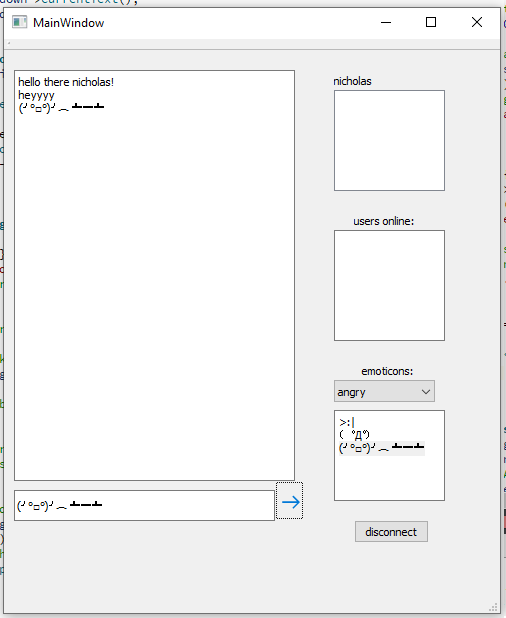
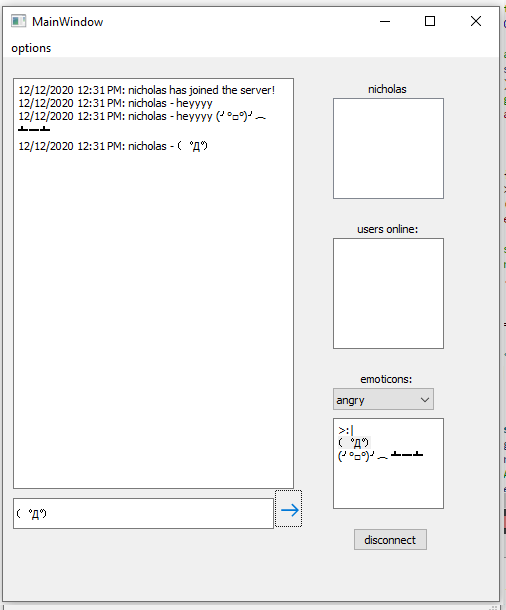
added a page for editing emoticons. made some more edits

diff --git a/app/mainwindow.cpp b/app/mainwindow.cpp
@@ -2,6 +2,7 @@
 #include "userdata.h"
 #include "ui_mainwindow.h"
 
+#include <QMenuBar>
 #include <QtDebug>
 
 MainWindow::MainWindow(QWidget *parent) :
@@ -10,17 +11,24 @@ MainWindow::MainWindow(QWidget *parent) :
 {
     ui->setupUi(this);
 
+    isConnected = false;
+
     // set up qwidgets for the windows
     stackedWidget = new QStackedWidget;
     QMainWindow::setCentralWidget(stackedWidget);
+
+    // set up menu bar
+    setUpMenuBar();
 
     userData = nullptr;
     clientSocket = new QTcpSocket();
     loginPage = new Login(nullptr, clientSocket);
     chatArea = new ChatArea(nullptr, clientSocket);
+    emoticonEdit = new EmoticonEdit(nullptr);
 
     stackedWidget->addWidget(loginPage);
     stackedWidget->addWidget(chatArea);
+    stackedWidget->addWidget(emoticonEdit);
     stackedWidget->setCurrentWidget(loginPage);
 
     // receive signal from the login page to move to chat area
@@ -35,8 +43,14 @@ void MainWindow::goToLogin(){
 }
 
 void MainWindow::goToChat(){
+    // user is connected
+    isConnected = true;
+
     // change the page
     stackedWidget->setCurrentWidget(chatArea);
+
+    // adjust menu bar items' active state
+    // i.e. 'go to previous page' should be greyed out when on the chat page
 
     // give chatArea userdata info
     emit giveUserData(userData);
@@ -52,6 +66,51 @@ void MainWindow::resize(int index){
 void MainWindow::getUserData(UserData* data){
     qDebug() << "MainWindow: got the userdata in mainwindow! username: " << *(data->username);
     userData = data;
+}
+
+void MainWindow::setUpMenuBar(){
+
+    // set up actions
+    editEmoticonsAct = new QAction(tr("&edit emoticons"), this);
+    goBackAct = new QAction(tr("&back to previous page"), this);
+    disconnectAct = new QAction(tr("&disconnect from server"), this);
+
+    connect(editEmoticonsAct, &QAction::triggered, this, &MainWindow::goToEditEmoticons);
+    connect(goBackAct, &QAction::triggered, this, &MainWindow::goBackToPrevPage);
+    connect(disconnectAct, &QAction::triggered, this, &MainWindow::disconnectFromServer);
+
+    // set up menu
+    optionMenu = new QMenu(tr("&options"), this);
+    optionMenu->addAction(editEmoticonsAct);
+    optionMenu->addAction(goBackAct);
+    optionMenu->addAction(disconnectAct);
+
+    // on login page, 'go back' and 'disconnect' should be greyed out
+    goBackAct->setEnabled(false);
+    disconnectAct->setEnabled(false);
+
+    menuBar()->addMenu(optionMenu);
+}
+
+// slots for handling menu bar actions
+void MainWindow::goToEditEmoticons(){
+    // make sure goBackToPrevPage is enabled
+    goBackAct->setEnabled(true);
+    stackedWidget->setCurrentWidget(emoticonEdit);
+}
+
+void MainWindow::goBackToPrevPage(){
+    // set current page to either the login if not connected yet,
+    // or to the chat area if connected
+    if(stackedWidget->currentIndex() == 2 && !isConnected){
+        // if we're currently on the edit emoticons page and we're not connected
+        // to a server, go back to login page
+        stackedWidget->setCurrentWidget(loginPage);
+    }
+}
+
+void MainWindow::disconnectFromServer(){
+    // disconnect from the server
 }
 
 MainWindow::~MainWindow()

diff --git a/app/mainwindow.h b/app/mainwindow.h
@@ -3,11 +3,14 @@
 
 #include "login.h"
 #include "chatarea.h"
+#include "emoticonedit.h"
 #include "userdata.h"
 
 #include <QMainWindow>
 #include <QTcpSocket>
 #include <QStackedWidget>
+#include <QAction>
+#include <QMenu>
 
 namespace Ui {
     class MainWindow;
@@ -30,13 +33,31 @@ private slots:
     void resize(int index);
     void getUserData(UserData* data);
 
+    // for menu actions
+    void goToEditEmoticons();
+    void goBackToPrevPage();
+    void disconnectFromServer();
+
 private:
     Ui::MainWindow *ui;
     QStackedWidget* stackedWidget;
+
+    // pages
     Login* loginPage;
     ChatArea* chatArea;
+    EmoticonEdit* emoticonEdit;
+
     QTcpSocket* clientSocket;
     UserData* userData;
+
+    QMenu* optionMenu;
+    QAction* editEmoticonsAct;
+    QAction* goBackAct;
+    QAction* disconnectAct;
+
+    bool isConnected; // if is connected to chat server
+
+    void setUpMenuBar();
 };
 
 #endif // MAINWINDOW_H

diff --git a/app/emoticonedit.h b/app/emoticonedit.h
@@ -1,0 +1,22 @@
+#ifndef EMOTICONEDIT_H
+#define EMOTICONEDIT_H
+
+#include <QWidget>
+
+namespace Ui {
+class EmoticonEdit;
+}
+
+class EmoticonEdit : public QWidget
+{
+    Q_OBJECT
+
+public:
+    explicit EmoticonEdit(QWidget *parent = nullptr);
+    ~EmoticonEdit();
+
+private:
+    Ui::EmoticonEdit *ui;
+};
+
+#endif // EMOTICONEDIT_H

diff --git a/app/emoticonedit.cpp b/app/emoticonedit.cpp
@@ -1,0 +1,14 @@
+#include "emoticonedit.h"
+#include "ui_emoticonedit.h"
+
+EmoticonEdit::EmoticonEdit(QWidget *parent) :
+    QWidget(parent),
+    ui(new Ui::EmoticonEdit)
+{
+    ui->setupUi(this);
+}
+
+EmoticonEdit::~EmoticonEdit()
+{
+    delete ui;
+}
